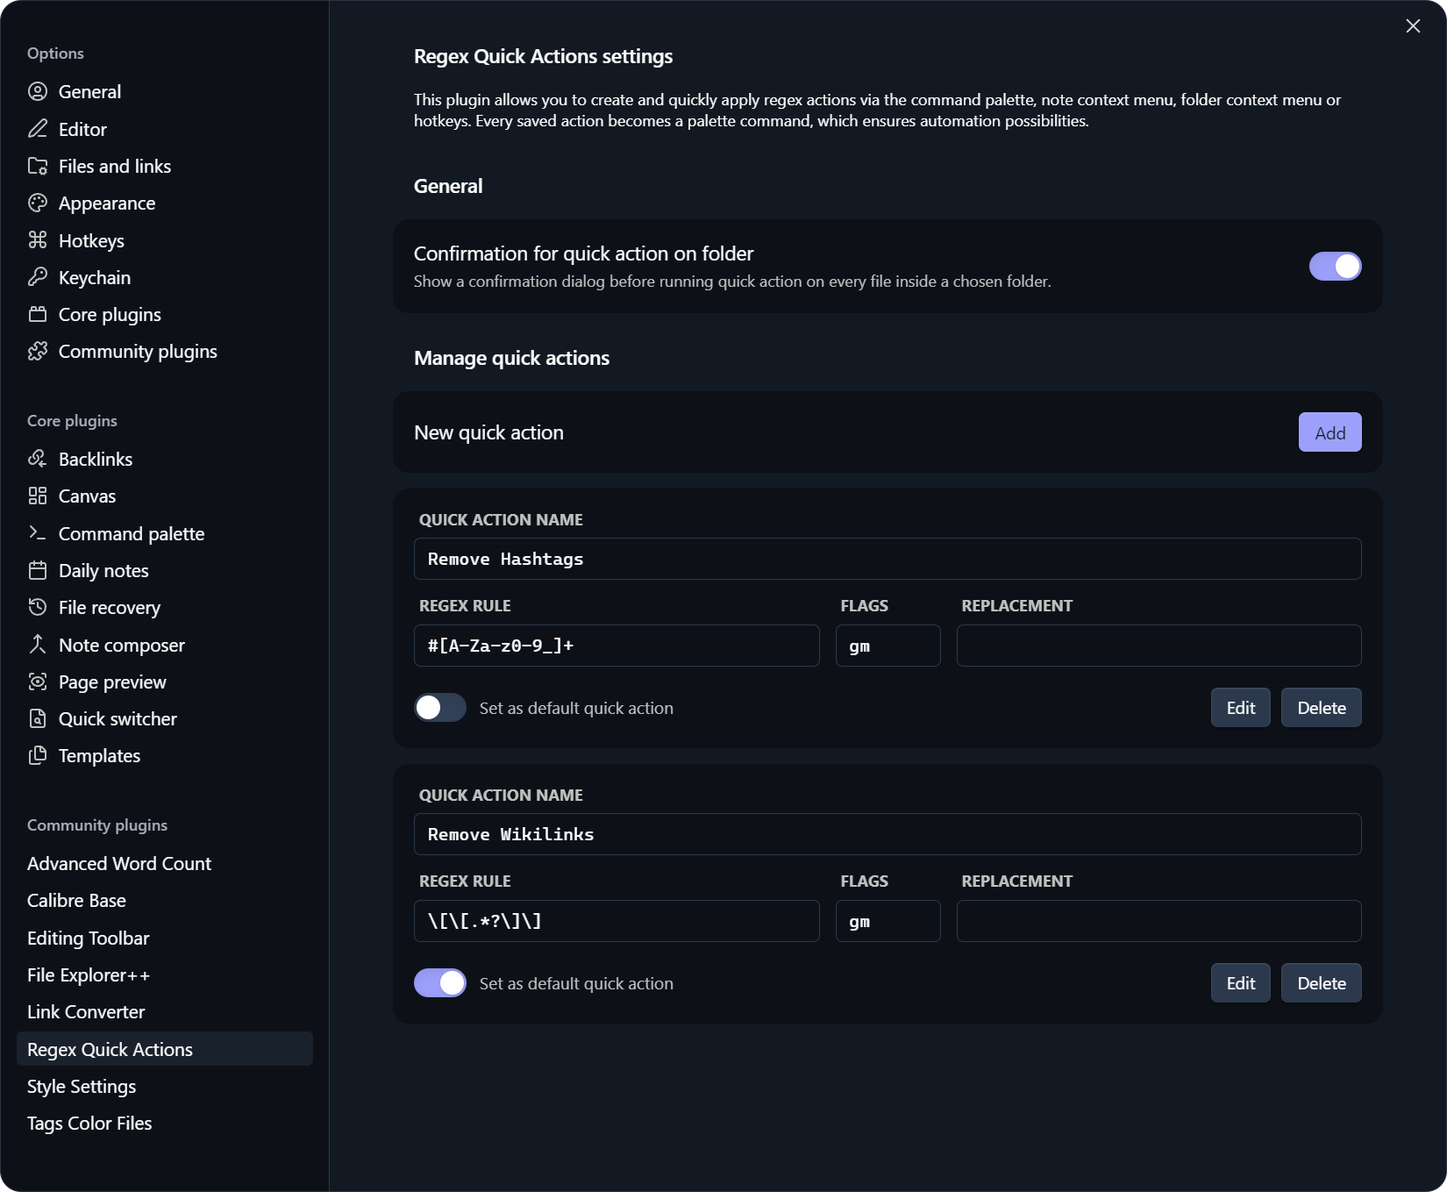
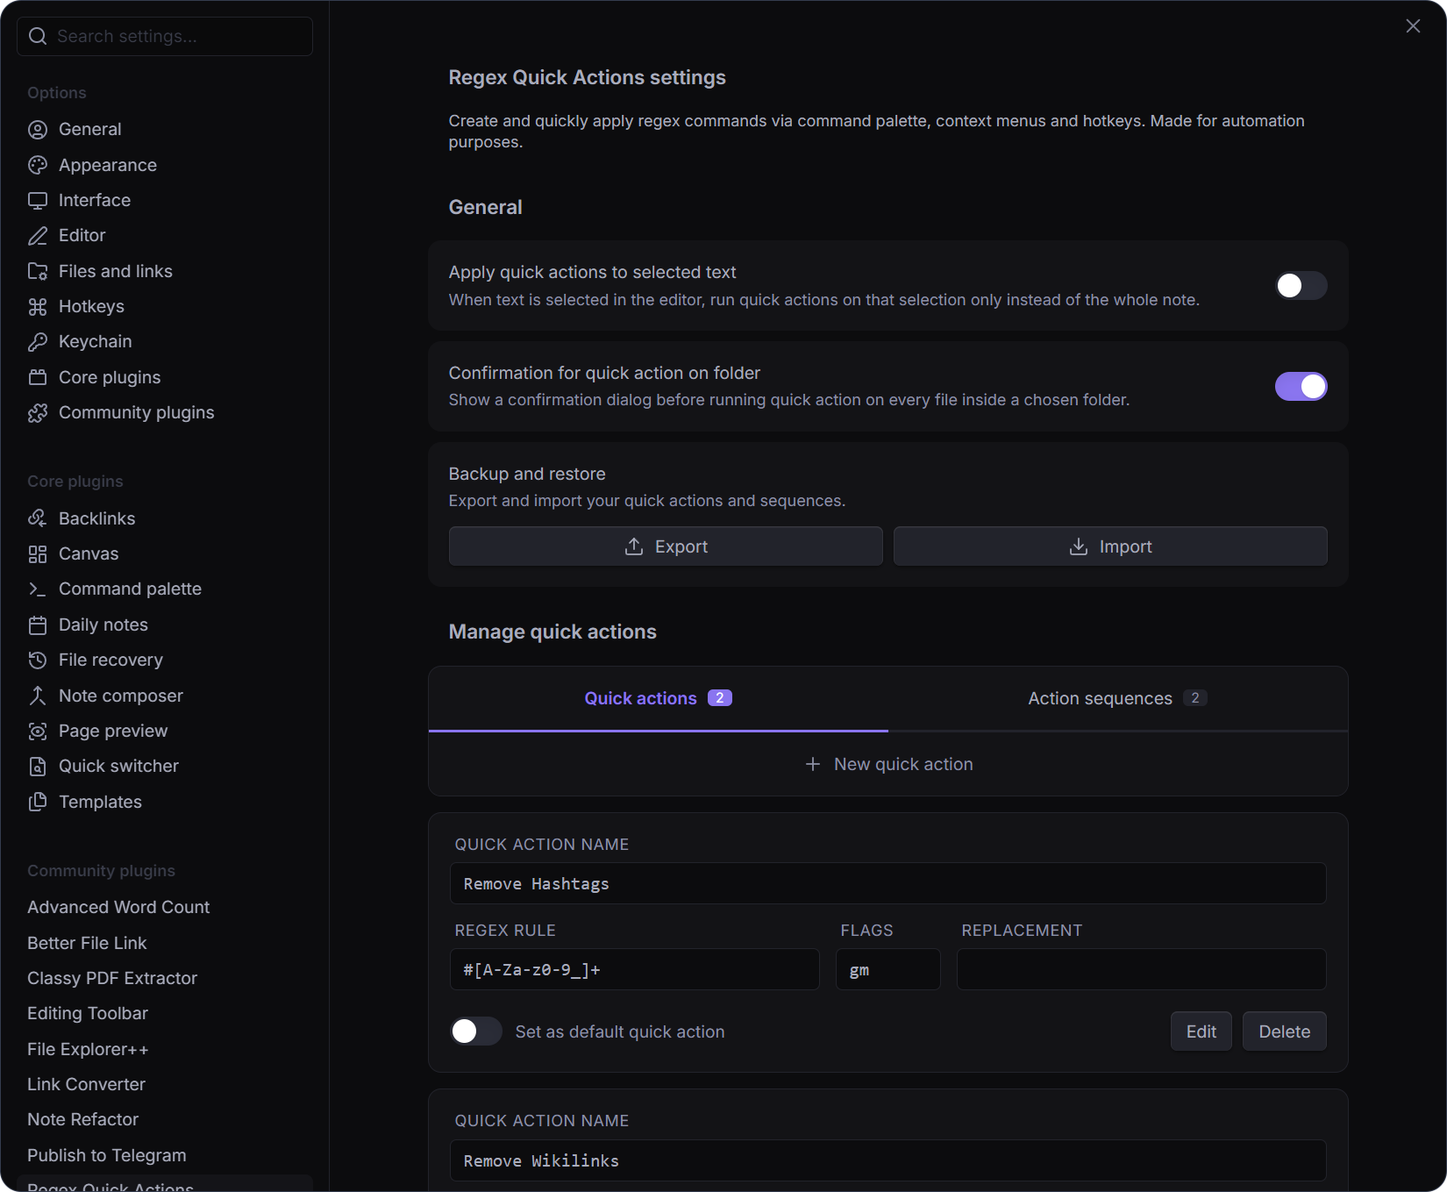
Docs update

diff --git a/README_RU.md b/README_RU.md
@@ -2,32 +2,32 @@
 
 [English](https://github.com/pan4ratte/obsidian-regex-quick-actions/blob/master/README.md) | Русский
 
-Данный плагин позволяет создавать команды regex и быстро применять их в разных контекстах в Obsidian и был создан для целей автоматизации, поэтому совместим с такими плагинами, как [Commander](https://github.com/phibr0/obsidian-commander).
-
-Regex Quick Actions — это продолжение идеи плагина [Regex Pipeline](https://github.com/No3371/obsidian-regex-pipeline). Изначально база кода была позаимствована из него, но сейчас каждая строчка кода является оригинальной. Тем не менее, выражаю признательность авторам за вдохновение и за то, что сделали возможным быстрый старт этого проекта.
+Данный плагин позволяет создавать и быстро применять команды regex через палитру команд, контекстные меню и горячие клавиши. Сделан с расчётом на автоматизацию.
 
 ![](media/plugin-demo-settings.png)
 
 
 ## Фичи
 
-1. Создание быстрых команд regex их использование:
+### 1. Быстрые команды в любом контексте
 
-	- Из палитры команд.
-	- Из контекстного меню файла в проводнике (команда по умолчанию).
-	- Из контекстного меню папки в проводнике (команда по умолчанию, применяется ко всем файлам в папке).
-	- Из контекстного меню активной заметки.
-	- С помощью сочетаний клавиш.
+Создавайте быстрые команды regex и применяйте их из палитры команд или с помощью сочетаний клавиш. Применение возможно как для одной заметки, так и для всех заметок в выбранной папке. Также, доступно назначение команды по умолчанию.
 
-2. Назначение команды по умолчанию для быстрого использования.
+### 2. Заготавливайте последовательности команд
 
-3. Создание последовательностей команд — цепочек быстрых команд, которые выполняются одна за другой. Откройте вкладку «Последовательности команд» в настройках плагина, нажмите «Новая последовательность команд», задайте название и выберите быстрые команды, из которых она состоит; порядок списка — это порядок выполнения, и его можно менять перетаскиванием строк (на мобильных устройствах — кнопками вверх и вниз). Каждая сохранённая последовательность появляется в палитре команд и в тех же контекстных меню, что и обычные быстрые команды. Каждая команда в последовательности применяется к результату предыдущей, и следующая команда не начинается, пока не завершилась предыдущая.
+Создавайте цепочки быстрых команд, которые выполняются одна за другой. Команды в последовательности можно менять местами, а также одну и ту же команду можно выполнять сколько угодно раз подряд. Каждая сохранённая последовательность появляется в палитре команд и в контекстных меню заметок и папок.
 
-4. Применение команд только к выделенному тексту. Включите в настройках плагина опцию «Применять быстрые команды к выделенному тексту»: после этого любая команда, вызванная из палитры команд, сочетанием клавиш или из контекстного меню заметки, будет применена только к текущему выделению. Если ничего не выделено, команда применяется ко всей заметке. Команды из контекстного меню файла или папки всегда применяются к файлам целиком.
+### 3. Применение команд только к выделенному тексту
 
-5. Экспорт и импорт быстрых команд и последовательностей с помощью опции «Резервное копирование и восстановление команд» в конце раздела «Основные» настроек плагина. Экспорт сохраняет все ваши команды в файл JSON и доступен только на компьютере, поскольку мобильное приложение не может сохранить файл таким способом. Импорт добавляет команды из такого файла и никогда не перезаписывает уже имеющиеся: импортируемая команда с уже занятым именем добавляется под новым именем, а уже существующая команда пропускается.
+Опция в настройках позволяет включить применение команд или последовательностей не только ко всему файлу, но и к выделенному в данный момент тексту в заметке.
 
-6. Отмена последней быстрой команды через команду «Отменить последнюю быструю команду» в палитре команд. Она отменяет последнее применение целиком, включая применение к нескольким файлам или ко всей папке, и позволяет сделать только один шаг назад, а не хранит историю. Файл не будет затронут, если он был изменён после применения команды, поэтому ваши последующие правки никогда не будут перезаписаны. Данные для отмены хранятся только в памяти: они теряются при перезапуске Obsidian или перезагрузке плагина.
+### 4. Резервное копирование и восстановление
+
+Экспортируйте и импортируйте свои быстрые команды и последовательности в файл. Экспорт доступен только для десктопов из-за ограничений платформы.
+
+### 5. Отмена последней выполненной команды
+
+Команда «Отменить последнюю быструю команду» в палитре отменяет последнее применение целиком, включая применение к нескольким файлам или ко всей папке.
 
 
 ## Установка
@@ -53,15 +53,13 @@ Regex Quick Actions — это продолжение идеи плагина [R
 4. В пункте "Select a version" выберите нужную версию и нажмите на кнопку "Add plugin". Плагин автоматически установится и будет готов для использования.
 
 
-## Дорожная карта
-
-- [x] ~~Добавить русскую локализацию.~~
-
-- [x] ~~Добавить функцию экспорта/импорта настроек.~~
-
 
 ## Об авторе
 
-Меня зовут Марк Ингрэм, я религиовед, и кроме своего основного направления исследований (протестантская политическая теология в России), я преподаю предмет "Информационные технологии в научных исследованиях" на основании своей собственной уникальной программы. Данный плагин помогает мне в исследованиях, а также я использую его в преподавании, как и другие плагины, которые я разрабатываю и которые вы можете найти в моём профиле на GitHub.
+Меня зовут Марк Ингрэм (Ingrem), я религиовед, и кроме своего основного направления исследований (протестантская политическая теология в России), я преподаю предмет "Информационные технологии в научных исследованиях" на основании своей собственной уникальной программы. Данный плагин помогает мне в исследованиях, а также я использую его в преподавании, как и другие плагины, которые я разрабатываю и которые вы можете найти в моём профиле на GitHub.
 
 Привет всем студентам, которые зашли на эту страницу!
+
+## Благодарности
+
+Regex Quick Actions — это продолжение идеи плагина [Regex Pipeline](https://github.com/No3371/obsidian-regex-pipeline). Изначально база кода была позаимствована из него, но сейчас каждая строчка кода является оригинальной. Тем не менее, выражаю признательность авторам за вдохновение и за то, что сделали возможным быстрый старт этого проекта.

diff --git a/README.md b/README.md
@@ -2,32 +2,32 @@
 
 English | [Русский](https://github.com/pan4ratte/obsidian-regex-quick-actions/blob/master/README_RU.md)
 
-This plugin allows you to create regex actions and quickly apply them in different contexts in Obsidian. The plugin was created for automation purposes, so it is compatible with such plugins, as [Commander](https://github.com/phibr0/obsidian-commander).
-
-Regex Quick Actions is a continuation of the idea of [Regex Pipeline](https://github.com/No3371/obsidian-regex-pipeline) plugin. While the base of the code was borrowed from it, now every line is original. Still, cheers to the authors for the inspiration and for making a quick start of this project possible.
+This plugin allows you to create and quickly apply regex commands via command palette, context menus and hotkeys. Made for automation purposes.
 
 ![](media/plugin-demo-settings.png)
 
 
 ## Features
 
-1. Create regex quick actions and use them:
+### 1. Quick actions in every context
 
-	- From the command palette.
-	- From the context menu of the file in the file explorer (default action).
-	- From the context menu of the folder in the file explorer (default action, applies to all files in the folder).
-	- From the context menu of the current note.
-	- With hotkeys.
+Create regex quick actions and run them from the command palette or with hotkeys. They can be applied to a single note as well as to every note in a chosen folder. Setting a default action is available too.
 
-2. Set a default action for quick use.
+### 2. Prepare action sequences
 
-3. Build action sequences: chains of quick actions that run one after another. Open the "Action sequences" tab in the plugin settings, click "New action sequence", name the sequence and pick the quick actions it consists of; the order of the list is the order they run in, and you can rearrange it by dragging the rows (on mobile, with the up and down buttons). Every saved sequence becomes a command palette entry of its own and appears in the same context menus as ordinary quick actions. Each action in a sequence is applied to the result of the previous one, and a sequence never starts an action before the previous one has finished.
+Build chains of quick actions that run one after another. The actions in a sequence can be reordered, and the same action can be run any number of times in a row. Every saved sequence appears in the command palette and in the context menus of notes and folders.
 
-4. Apply actions to selected text only. Turn on "Apply quick actions to selected text" in the plugin settings: after that, any action run from the command palette, a hotkey or the note context menu is applied only to the current selection. If nothing is selected, the action is applied to the whole note. Actions run from the file or folder context menu always apply to whole files.
+### 3. Actions applied to selected text only
 
-5. Export and import quick actions and sequences with the "Backup and restore actions" option at the bottom of the "General" section of the plugin settings. Export saves all your actions to a JSON file; it is available on desktop only, because the mobile app cannot save a file this way. Import adds the actions from such a file and never overwrites what you already have: an imported action whose name is already taken is added under a new name, and an action that is already present is skipped.
+An option in the settings makes actions and sequences apply not only to the whole file, but also to the text currently selected in a note.
 
-6. Revert the last quick action with the "Revert last quick action" command from the command palette. It undoes the most recent run as a whole, including runs over several files or over a whole folder, and it is a single step back rather than a history of them. A file is left untouched if it was edited after the action ran, so your later edits are never overwritten. The undo data is kept in memory only: it is lost when Obsidian is restarted or the plugin is reloaded.
+### 4. Backup and restore
+
+Export and import your quick actions and sequences to a file. Export is available on desktop only, because of the platform's limits.
+
+### 5. Reverting the last executed action
+
+The "Revert last quick action" command in the palette undoes the most recent run as a whole, including runs over several files or over a whole folder.
 
 
 ## Installation
@@ -38,7 +38,7 @@ Regex Quick Actions is a continuation of the idea of [Regex Pipeline](https://gi
 
 2. In the search bar type `Regex Quick Actions`, click on the result, then "Install" and "Enable" buttons.
 
-Alternatively, you can install the plugin by following the link to the community website: [https://community.obsidian.md/plugins/obsidian-regex-quick-actions](https://community.obsidian.md/plugins/obsidian-regex-quick-actions)
+Alternatively, you can install the plugin by following the link to the community website: [https://community.obsidian.md/plugins/regex-quick-actions](https://community.obsidian.md/plugins/regex-quick-actions)
 
 ### Option 2: BRAT plugin
 
@@ -53,15 +53,13 @@ If you want to test beta-versions of the plugin or use previous versions, you ca
 4. Under “Select a version” choose the desired version and click the “Add plugin” button. The plugin will be automatically installed and will be ready to use.
 
 
-## Roadmap
-
-- [x] ~~Add Russian language translation.~~
-
-- [x] ~~Add settings export/import feature.~~
-
 
 ## About the Author
 
 My name is Mark Ingram (Ingrem), I am a Religious Studies scholar. Apart from my main area of study (Protestant Political Theology in Russia), I teach the subject "Information Technologies in Scientific Research", a unique course that I developed myself from scratch. This plugin helps me in my studies and I use it in my teaching, as well as other plugins that I develop and that you can find in my GitHub profile.
 
 Hello to every student that came across this page!
+
+## Credits
+
+Regex Quick Actions is a continuation of the idea of [Regex Pipeline](https://github.com/No3371/obsidian-regex-pipeline) plugin. While the base of the code was borrowed from it, now every line is original. Still, cheers to the authors for the inspiration and for making a quick start of this project possible.
